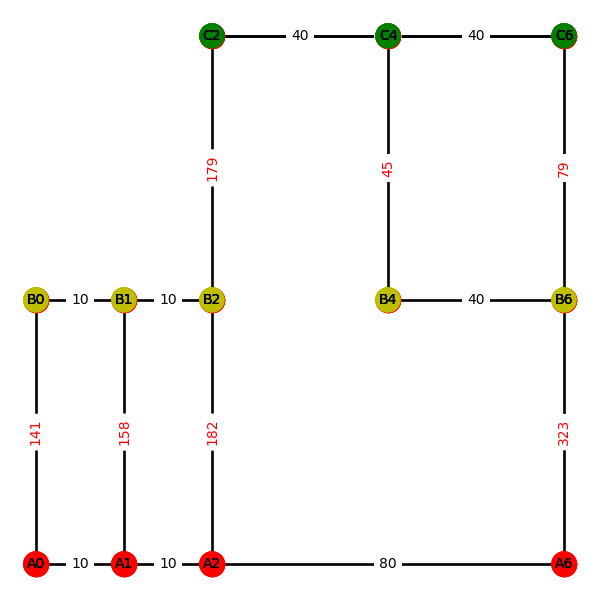
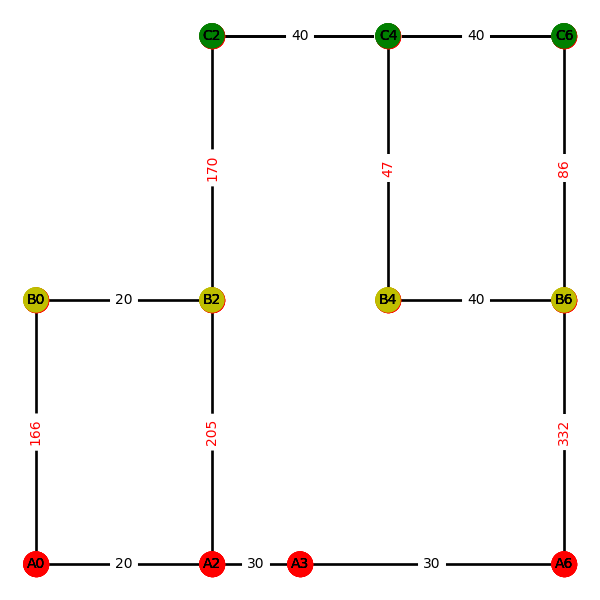
demo perfect

diff --git a/model.py b/model.py
@@ -19,7 +19,7 @@ exit_count_out=open("test_exit_count.csv","w")
 cost_count_out=open("test_cost.csv","w")
 Mnode=node_in.readlines()
 Mhori=hori_in.readlines()
-dstlist=['A2','A6']
+dstlist=['A3']
 OUTPUT=0
 NEEDOUT=1
 roundCount=0
@@ -285,7 +285,7 @@ if __name__ == "__main__":
                 Graph_show(G)
                 node_counts=nx.get_node_attributes(G,'count')
                 node_path=nx.get_node_attributes(G,'path')
-            if (node_counts[1]<=1):
+            if (node_counts[0]<=1):
                 break
             #print("loop:{}\nnode_counts:{}\n".format(k,node_counts[1]))
             
